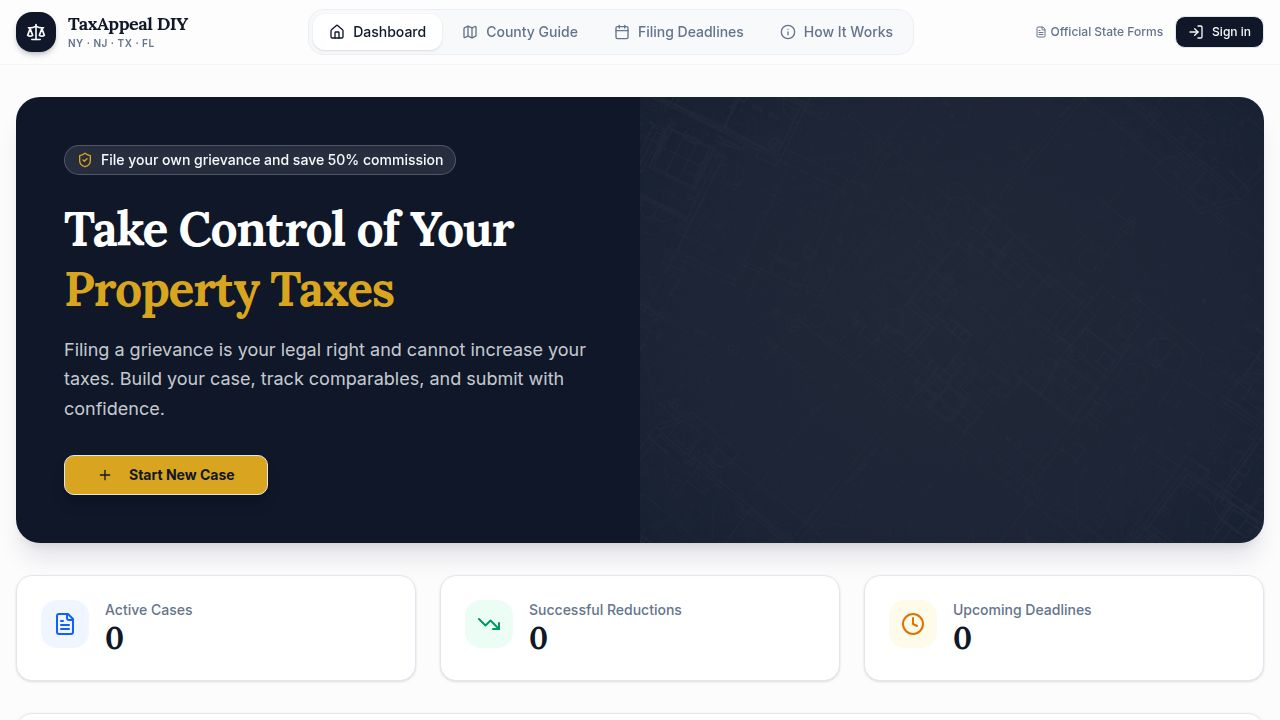
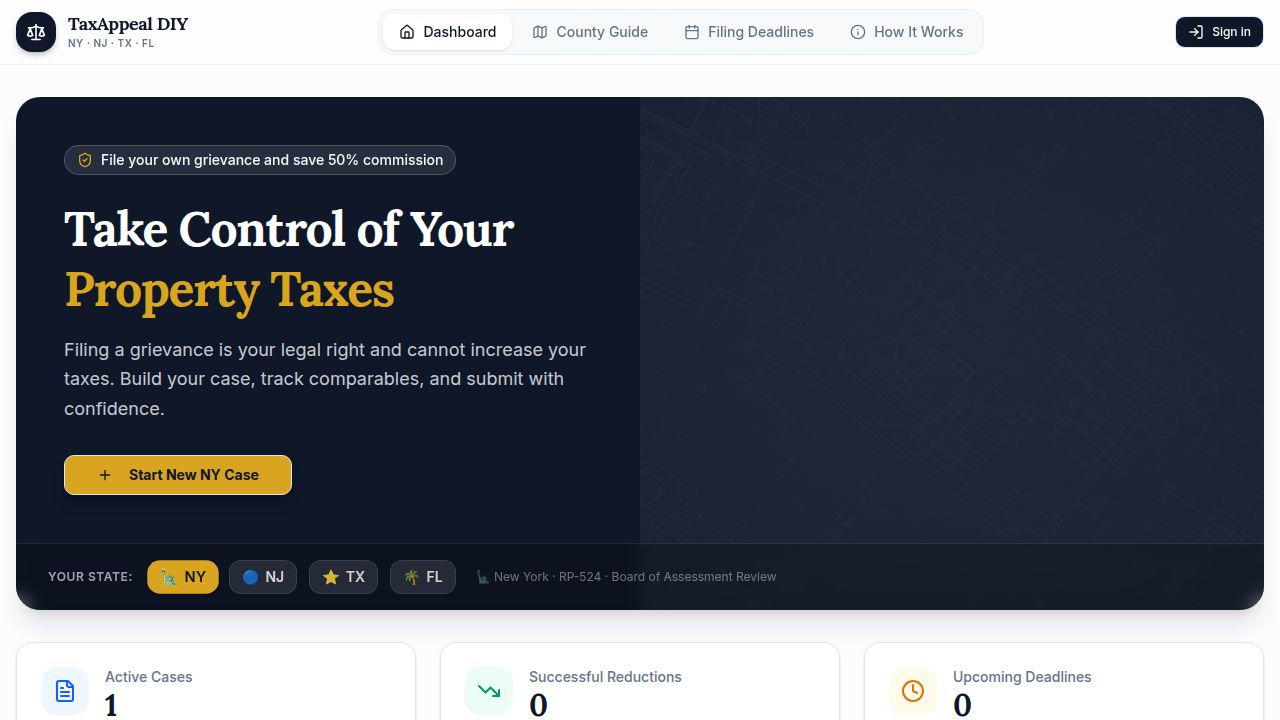
Add state selection and tailor content for multiple states
Introduce a multi-state selector and update UI elements to reflect the selected state, including form names, descriptions, and legal terminology. Refactor GrievanceForm to accept an initial state and dynamically set default values. Add a new hook, `usePreferredState`, to manage and persist user state preferences across sessions. Clean up unused imports and redundant links in AppLayout.

Replit-Commit-Author: Agent
Replit-Commit-Session-Id: bb333801-7df1-4d37-9ff8-904afaa9c4a0
Replit-Commit-Checkpoint-Type: full_checkpoint
Replit-Commit-Event-Id: b2f2015c-efcf-424d-93a2-1dbcb4858778
Replit-Commit-Screenshot-Url: https://storage.googleapis.com/screenshot-production-us-central1/3b4db374-e1fd-49fc-b2ad-939958f993aa/bb333801-7df1-4d37-9ff8-904afaa9c4a0/sGfjjjz
Replit-Helium-Checkpoint-Created: true

diff --git a/artifacts/property-tax-grievance/src/pages/Dashboard.tsx b/artifacts/property-tax-grievance/src/pages/Dashboard.tsx
@@ -8,6 +8,7 @@ import { FileText, Plus, ArrowRight, TrendingDown, Clock, ShieldCheck, DollarSig
 import { useState } from "react";
 import { format, parseISO, isValid, isFuture } from "date-fns";
 import { getComputedDeadline } from "@/data/county-filing-instructions";
+import { usePreferredState, STATE_META, type AppState } from "@/hooks/use-preferred-state";
 
 const STATUS_COLORS = {
   draft: "bg-slate-100 text-slate-700 border-slate-200",
@@ -20,6 +21,7 @@ const STATUS_COLORS = {
 export function Dashboard() {
   const { data: grievances, isLoading } = useGrievances();
   const [isDialogOpen, setIsDialogOpen] = useState(false);
+  const { preferredState, setPreferredState, meta } = usePreferredState();
 
   const totalCases = grievances?.length || 0;
   const reducedCases = grievances?.filter(g => g.status === 'reduced').length || 0;
@@ -40,7 +42,7 @@ export function Dashboard() {
     <AppLayout>
       <div className="space-y-8">
         {/* Hero Section */}
-        <div className="relative overflow-hidden rounded-3xl bg-primary text-primary-foreground p-8 md:p-12 shadow-xl shadow-primary/10">
+        <div className="relative overflow-hidden rounded-3xl bg-primary text-primary-foreground shadow-xl shadow-primary/10">
           <div className="absolute top-0 right-0 w-1/2 h-full opacity-10 pointer-events-none">
             <img 
               src={`${import.meta.env.BASE_URL}images/hero-bg.png`} 
@@ -48,36 +50,61 @@ export function Dashboard() {
               className="w-full h-full object-cover"
             />
           </div>
-          
-          <div className="relative z-10 max-w-2xl">
+
+          <div className="relative z-10 p-8 md:p-12 max-w-2xl">
             <div className="inline-flex items-center gap-2 px-3 py-1 rounded-full bg-white/10 border border-white/20 text-sm font-medium mb-6 backdrop-blur-sm">
               <ShieldCheck className="w-4 h-4 text-accent" />
-              <span>File your own grievance and save 50% commission</span>
+              <span>File your own {meta.verb} and save 50% commission</span>
             </div>
             <h1 className="text-4xl md:text-5xl font-serif font-bold mb-4 leading-tight text-white">
               Take Control of Your <br/><span className="text-accent">Property Taxes</span>
             </h1>
             <p className="text-lg text-primary-foreground/80 mb-8 max-w-xl leading-relaxed">
-              Filing a grievance is your legal right and cannot increase your taxes. Build your case, track comparables, and submit with confidence.
+              Filing a {meta.verb} is your legal right and cannot increase your taxes. Build your case, track comparables, and submit with confidence.
             </p>
-            
+
             <Dialog open={isDialogOpen} onOpenChange={setIsDialogOpen}>
               <DialogTrigger asChild>
                 <Button size="lg" className="bg-accent text-accent-foreground hover:bg-accent/90 font-bold px-8 shadow-lg shadow-black/20 hover:-translate-y-0.5 transition-transform">
                   <Plus className="w-5 h-5 mr-2" />
-                  Start New Case
+                  Start New {preferredState} Case
                 </Button>
               </DialogTrigger>
               <DialogContent className="max-w-3xl max-h-[90vh] overflow-y-auto">
                 <DialogHeader>
-                  <DialogTitle className="font-serif text-2xl">Create New Grievance Case</DialogTitle>
+                  <DialogTitle className="font-serif text-2xl">New {meta.name} Tax Appeal</DialogTitle>
                   <DialogDescription>
-                    Enter the basic details from your Notice of Tentative Assessment.
+                    Select your state, then enter your property details to build your {meta.verb} case using {meta.form}.
                   </DialogDescription>
                 </DialogHeader>
-                <GrievanceForm onSuccess={() => setIsDialogOpen(false)} />
+                <GrievanceForm onSuccess={() => setIsDialogOpen(false)} initialState={preferredState} />
               </DialogContent>
             </Dialog>
+          </div>
+
+          {/* State selector strip */}
+          <div className="relative z-10 border-t border-white/10 bg-black/20 backdrop-blur-sm px-8 py-4">
+            <div className="flex items-center gap-3 flex-wrap">
+              <span className="text-xs font-semibold text-white/60 uppercase tracking-wider mr-1">Your state:</span>
+              {(Object.entries(STATE_META) as [AppState, typeof STATE_META[AppState]][]).map(([code, s]) => (
+                <button
+                  key={code}
+                  type="button"
+                  onClick={() => setPreferredState(code)}
+                  className={`flex items-center gap-1.5 px-3 py-1.5 rounded-lg text-sm font-semibold transition-all duration-200 ${
+                    preferredState === code
+                      ? "bg-accent text-accent-foreground shadow-sm scale-105"
+                      : "bg-white/10 text-white/80 hover:bg-white/20 hover:text-white border border-white/10"
+                  }`}
+                >
+                  <span>{s.flag}</span>
+                  <span>{code}</span>
+                </button>
+              ))}
+              <span className="text-white/40 text-xs ml-2 hidden sm:inline">
+                {meta.flag} {meta.name} · {meta.form} · {meta.body}
+              </span>
+            </div>
           </div>
         </div>
 
@@ -127,10 +154,10 @@ export function Dashboard() {
           </div>
           <div className="grid grid-cols-2 md:grid-cols-4 divide-x divide-y md:divide-y-0 divide-border">
             {[
-              { icon: Award,         value: "~80%",  label: "DIY success rate",         sub: "Nassau County, 2024",            color: "text-emerald-600", bg: "bg-emerald-50" },
-              { icon: DollarSign,    value: "$0",    label: "Cost to file",             sub: "No fee unless you go to SCAR ($30)", color: "text-blue-600",    bg: "bg-blue-50"   },
-              { icon: AlertTriangle, value: "$0",    label: "Risk of filing",           sub: "Taxes cannot go up",             color: "text-amber-600",   bg: "bg-amber-50"  },
-              { icon: TrendingDown,  value: "50%",   label: "Commission saved",         sub: "vs. hiring a firm",              color: "text-violet-600",  bg: "bg-violet-50" },
+              { icon: Award,         value: "~80%",  label: "DIY success rate",  sub: "Homeowners who file and follow up",  color: "text-emerald-600", bg: "bg-emerald-50" },
+              { icon: DollarSign,    value: "$0",    label: "Cost to file",      sub: "Free in NY, NJ, TX · $15 in FL",    color: "text-blue-600",    bg: "bg-blue-50"   },
+              { icon: AlertTriangle, value: "$0",    label: "Risk of filing",    sub: "Taxes cannot go up in any state",   color: "text-amber-600",   bg: "bg-amber-50"  },
+              { icon: TrendingDown,  value: "50%",   label: "Commission saved",  sub: "vs. hiring a professional firm",    color: "text-violet-600",  bg: "bg-violet-50" },
             ].map(({ icon: Icon, value, label, sub, color, bg }) => (
               <div key={label} className="flex flex-col items-center text-center p-5 gap-2 hover:bg-secondary/30 transition-colors">
                 <div className={`p-2 rounded-lg ${bg}`}>
@@ -147,7 +174,7 @@ export function Dashboard() {
           <div className="px-6 py-3 bg-emerald-50 border-t border-emerald-100 flex items-center gap-2 text-sm text-emerald-800">
             <ShieldCheck className="w-4 h-4 text-emerald-600 flex-shrink-0" />
             <span>
-              <strong>New York law guarantees:</strong> filing a grievance cannot raise your assessment. The worst outcome is no change.
+              <strong>All 4 states guarantee:</strong> filing an appeal cannot raise your assessment. The worst outcome is no change.
             </span>
           </div>
         </div>

diff --git a/artifacts/property-tax-grievance/src/components/GrievanceForm.tsx b/artifacts/property-tax-grievance/src/components/GrievanceForm.tsx
@@ -88,11 +88,12 @@ const FIELD_LABELS: Record<string, string> = {
 interface GrievanceFormProps {
   initialData?: Grievance;
   onSuccess?: () => void;
+  initialState?: string;
 }
 
 /* ─── Component ─────────────────────────────────────── */
 
-export function GrievanceForm({ initialData, onSuccess }: GrievanceFormProps) {
+export function GrievanceForm({ initialData, onSuccess, initialState = "NY" }: GrievanceFormProps) {
   const { toast } = useToast();
   const createMutation = useCreateGrievance();
   const updateMutation = useUpdateGrievance();
@@ -141,10 +142,10 @@ export function GrievanceForm({ initialData, onSuccess }: GrievanceFormProps) {
           notes: initialData.notes ?? undefined,
         }
       : {
-          state: "NY",
+          state: initialState,
           taxYear: new Date().getFullYear(),
-          county: "Nassau",
-          basisOfComplaint: "overvaluation",
+          county: initialState === "TX" ? "Harris" : initialState === "NJ" ? "Bergen" : initialState === "FL" ? "Miami-Dade" : "Nassau",
+          basisOfComplaint: initialState === "TX" ? "market_value" : "overvaluation",
         },
   });
 
@@ -348,8 +349,57 @@ export function GrievanceForm({ initialData, onSuccess }: GrievanceFormProps) {
     </div>
   );
 
+  const STATE_TILES = [
+    { value: "NY", flag: "🗽", name: "New York",   form: "RP-524",           body: "Board of Assessment Review" },
+    { value: "NJ", flag: "🔵", name: "New Jersey", form: "Form A-1",         body: "County Board of Taxation" },
+    { value: "TX", flag: "⭐", name: "Texas",      form: "Notice of Protest", body: "Appraisal Review Board" },
+    { value: "FL", flag: "🌴", name: "Florida",    form: "DR-486 Petition",   body: "Value Adjustment Board" },
+  ];
+
   return (
     <form onSubmit={form.handleSubmit(onSubmit)} className="space-y-8 py-2">
+
+      {/* ── State Selector — always first ── */}
+      {!isEditing && (
+        <div>
+          <p className="text-sm font-semibold text-foreground mb-3">Which state is your property in?</p>
+          <div className="grid grid-cols-2 gap-3">
+            {STATE_TILES.map(({ value, flag, name, form: formName, body }) => {
+              const active = selectedState === value;
+              return (
+                <button
+                  key={value}
+                  type="button"
+                  onClick={() => {
+                    form.setValue("state", value);
+                    const defaultCounty = value === "TX" ? "Harris" : value === "NJ" ? "Bergen" : value === "FL" ? "Miami-Dade" : "Nassau";
+                    const defaultBasis = value === "TX" ? "market_value" : "overvaluation";
+                    form.setValue("county", defaultCounty);
+                    form.setValue("basisOfComplaint", defaultBasis);
+                  }}
+                  className={`flex items-start gap-3 p-4 rounded-xl border-2 text-left transition-all duration-200 ${
+                    active
+                      ? "border-primary bg-primary/5 shadow-sm"
+                      : "border-border bg-white hover:border-primary/40 hover:bg-secondary/30"
+                  }`}
+                >
+                  <span className="text-2xl leading-none mt-0.5">{flag}</span>
+                  <div>
+                    <div className={`font-bold text-sm leading-tight ${active ? "text-primary" : "text-foreground"}`}>{name}</div>
+                    <div className="text-xs text-muted-foreground mt-0.5">{formName}</div>
+                    <div className="text-xs text-muted-foreground">{body}</div>
+                  </div>
+                  {active && (
+                    <div className="ml-auto w-5 h-5 rounded-full bg-primary flex items-center justify-center flex-shrink-0">
+                      <svg className="w-3 h-3 text-white" fill="none" viewBox="0 0 24 24" stroke="currentColor" strokeWidth={3}><path strokeLinecap="round" strokeLinejoin="round" d="M5 13l4 4L19 7" /></svg>
+                    </div>
+                  )}
+                </button>
+              );
+            })}
+          </div>
+        </div>
+      )}
 
       {/* ── Auto-fill lookup panel ── */}
       <div className="rounded-xl border border-primary/20 bg-primary/5 p-4 space-y-3">
@@ -519,55 +569,6 @@ export function GrievanceForm({ initialData, onSuccess }: GrievanceFormProps) {
             <PropertyRecordCard result={lookupResult} />
           </div>
         )}
-      </div>
-
-      {/* ── State Selector ── */}
-      <div className="rounded-xl border border-border p-4 bg-secondary/20">
-        <div className="flex items-center gap-3">
-          <span className="text-sm font-semibold text-foreground whitespace-nowrap">Filing State:</span>
-          <div className="flex gap-2 flex-wrap">
-            {[
-              { value: "NY", label: "🗽 New York" },
-              { value: "NJ", label: "🔵 New Jersey" },
-              { value: "TX", label: "⭐ Texas" },
-              { value: "FL", label: "🌴 Florida" },
-            ].map(({ value, label }) => (
-              <button
-                key={value}
-                type="button"
-                onClick={() => {
-                  form.setValue("state", value);
-                  const defaultCounty = value === "TX" ? "Harris" : value === "NJ" ? "Bergen" : value === "FL" ? "Miami-Dade" : "Nassau";
-                  const defaultBasis = value === "TX" ? "market_value" : "overvaluation";
-                  form.setValue("county", defaultCounty);
-                  form.setValue("basisOfComplaint", defaultBasis);
-                }}
-                className={`px-4 py-1.5 rounded-lg border text-sm font-semibold transition-all ${
-                  selectedState === value
-                    ? "bg-primary text-primary-foreground border-primary shadow"
-                    : "bg-white text-foreground border-border hover:border-primary/40"
-                }`}
-              >
-                {label}
-              </button>
-            ))}
-          </div>
-          {isTX && (
-            <span className="text-xs text-muted-foreground ml-auto">
-              Texas: Appraisal Review Board (ARB) process
-            </span>
-          )}
-          {isNJ && (
-            <span className="text-xs text-muted-foreground ml-auto">
-              New Jersey: County Board of Taxation, Form A-1
-            </span>
-          )}
-          {isFL && (
-            <span className="text-xs text-muted-foreground ml-auto">
-              Florida: Value Adjustment Board (VAB), Form DR-486
-            </span>
-          )}
-        </div>
       </div>
 
       {/* ---- Part 1A: Owner / Complainant ---- */}

diff --git a/artifacts/property-tax-grievance/src/components/layout/AppLayout.tsx b/artifacts/property-tax-grievance/src/components/layout/AppLayout.tsx
@@ -1,5 +1,5 @@
 import { Link, useLocation } from "wouter";
-import { Scale, Home, Map, FileText, Info, Calendar, LogIn, LogOut, User, Loader2 } from "lucide-react";
+import { Scale, Home, Map, Info, Calendar, LogIn, LogOut, User, Loader2 } from "lucide-react";
 import { motion } from "framer-motion";
 import { clsx, type ClassValue } from "clsx";
 import { twMerge } from "tailwind-merge";
@@ -71,16 +71,6 @@ export function AppLayout({ children }: { children: React.ReactNode }) {
           </nav>
 
           <div className="flex items-center gap-3">
-            <a
-              href="https://www.tax.ny.gov/pit/property/contest/contestasmt.htm"
-              target="_blank"
-              rel="noreferrer"
-              className="text-xs font-medium text-muted-foreground hover:text-primary transition-colors flex items-center gap-1"
-            >
-              <FileText className="w-3 h-3" />
-              <span className="hidden sm:inline">Official State Forms</span>
-            </a>
-
             {isLoading ? (
               <Loader2 className="w-4 h-4 animate-spin text-muted-foreground" />
             ) : isAuthenticated && user ? (
@@ -138,7 +128,7 @@ export function AppLayout({ children }: { children: React.ReactNode }) {
       <footer className="border-t border-border/50 bg-white/50 mt-auto">
         <div className="container mx-auto px-4 py-8 text-center text-sm text-muted-foreground">
           <p className="font-serif italic mb-2">Empowering homeowners to advocate for fair assessments.</p>
-          <p>© {new Date().getFullYear()} Property Tax Appeal DIY. Not legal advice.</p>
+          <p>© {new Date().getFullYear()} TaxAppeal DIY · NY · NJ · TX · FL. Not legal advice.</p>
         </div>
       </footer>
     </div>

diff --git a/artifacts/property-tax-grievance/src/hooks/use-preferred-state.ts b/artifacts/property-tax-grievance/src/hooks/use-preferred-state.ts
@@ -1,0 +1,29 @@
+import { useState, useCallback } from "react";
+
+const STORAGE_KEY = "taxappeal_preferred_state";
+
+export type AppState = "NY" | "NJ" | "TX" | "FL";
+
+export const STATE_META: Record<AppState, { flag: string; name: string; form: string; body: string; verb: string }> = {
+  NY: { flag: "🗽", name: "New York",    form: "RP-524",             body: "Board of Assessment Review",     verb: "grievance" },
+  NJ: { flag: "🔵", name: "New Jersey",  form: "Form A-1",           body: "County Board of Taxation",       verb: "appeal"    },
+  TX: { flag: "⭐", name: "Texas",       form: "Notice of Protest",  body: "Appraisal Review Board",         verb: "protest"   },
+  FL: { flag: "🌴", name: "Florida",     form: "DR-486 Petition",    body: "Value Adjustment Board",         verb: "petition"  },
+};
+
+export function usePreferredState() {
+  const [preferredState, _setPreferred] = useState<AppState>(() => {
+    try {
+      const stored = localStorage.getItem(STORAGE_KEY);
+      if (stored && stored in STATE_META) return stored as AppState;
+    } catch {}
+    return "NY";
+  });
+
+  const setPreferredState = useCallback((s: AppState) => {
+    _setPreferred(s);
+    try { localStorage.setItem(STORAGE_KEY, s); } catch {}
+  }, []);
+
+  return { preferredState, setPreferredState, meta: STATE_META[preferredState] };
+}
